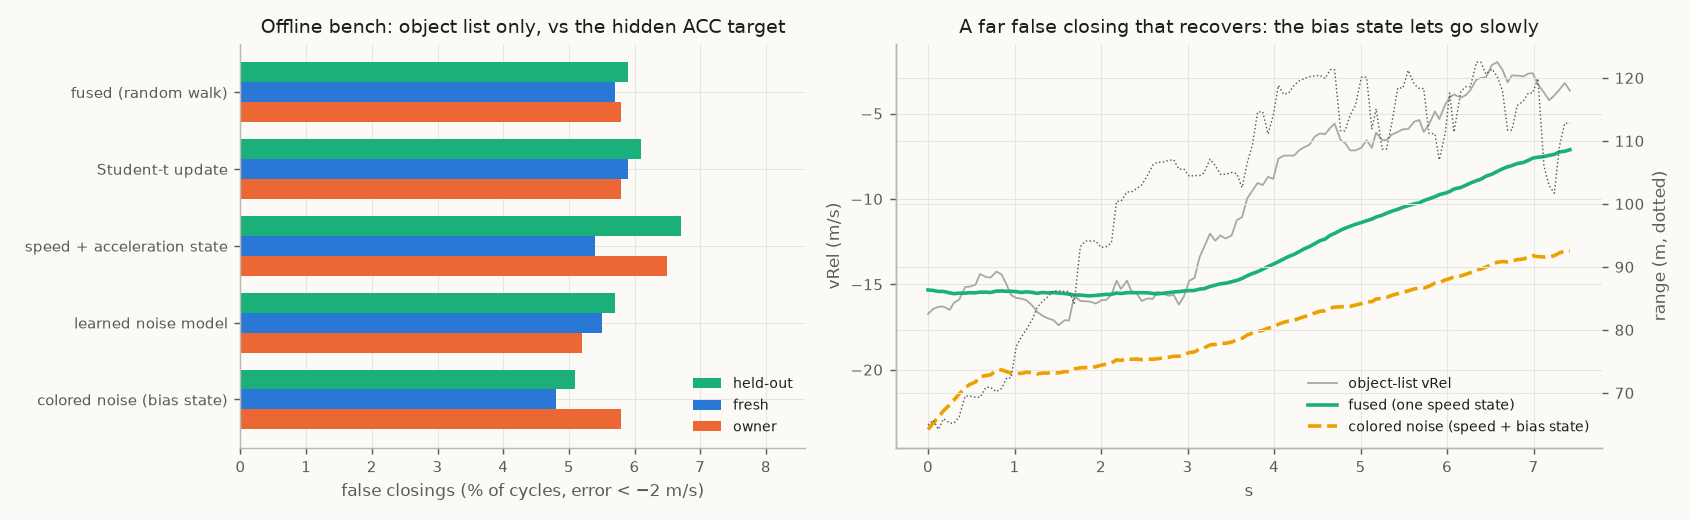
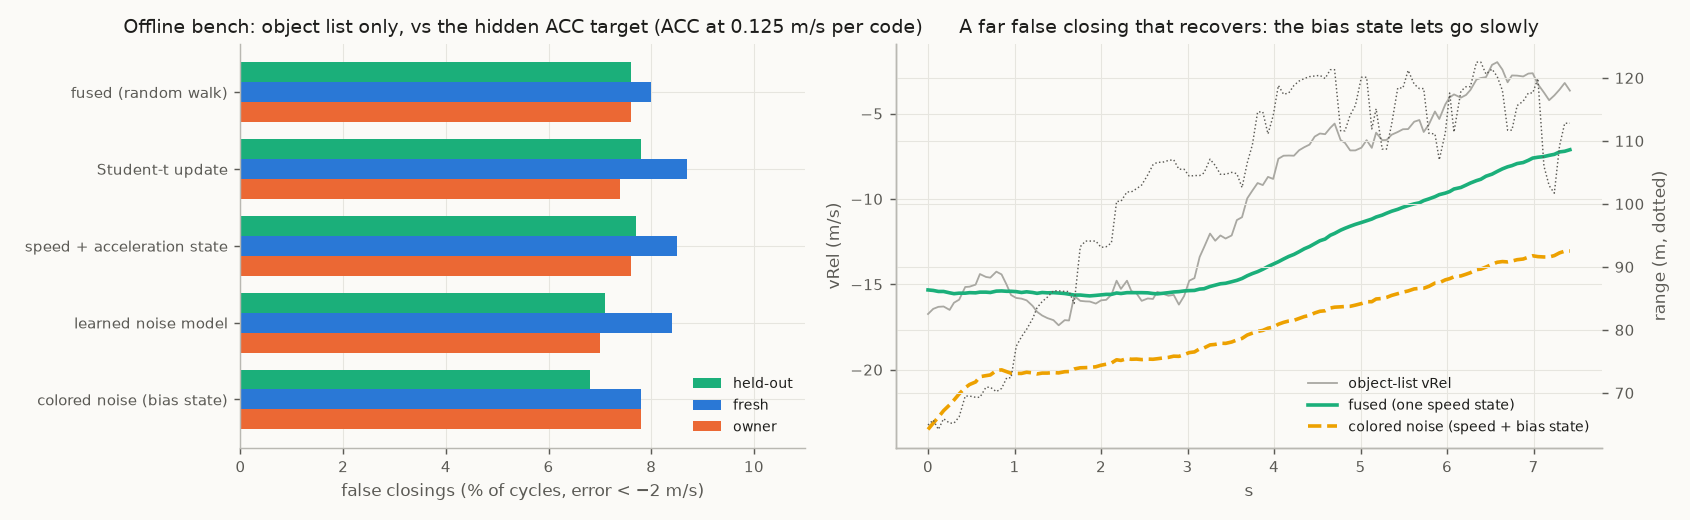
data, docs: rerun the 0.1 m/s-unit benches at 0.125 m/s per code; verify the open source claims
- kalman_variants.json / kalman_response.json: bench and response rerun at the corrected ACC unit (readings rescaled exactly; the same scripts reproduce the 0.1 numbers); colored-noise advantage on false closings is 0.8 points held-out, response advantage -84 ms [-129, -45]
- continental_field_map.json: 240|7 excursion AUCs recomputed at 0.125 (0.946 below 40 m, 0.53-0.59 beyond)
- docs 03/07/12 and the COLORED_CONFIG comment follow; kalman_variants figure regenerated
- radard distance gate cited to radard.py; StarPilot extrapolate_lead recorded in the driving ledger; unsupported Hyundai camera-SCC sentence removed
- hard_braking_review / full_movement_code rewrites tied to their data; small number fixes in docs 03/05/06/07

diff --git a/ars510/interface.py b/ars510/interface.py
@@ -170,8 +170,8 @@ FUSED_CONFIG = replace(BASE_CONFIG, range_fusion_gain=0.1, relink_max_gap_s=0.0,
 
 # Experimental (fork only, docs/12 "Kalman variants tested"): fused with the object-list error as a 1.2 s Gauss-Markov
 # bias state, noise scaled by ego speed and the radar's acceleration reading (fitted on the hidden-ACC teacher). Offline
-# bench: 5.1 % / 4.8 % false-closing cycles against 5.9 % / 5.7 % for fused on held-out / fresh drives
-# (kalman_variants.json); it holds a far excursion that recovers longer than fused does.
+# bench at the 0.125 m/s ACC unit: 6.8 % / 7.8 % false-closing cycles against 7.6 % / 8.0 % for fused on held-out / fresh
+# drives (kalman_variants.json); it holds a far excursion that recovers longer than fused does.
 COLORED_CONFIG = replace(FUSED_CONFIG, speed_sigma_per_code=0.001, speed_bias_tau_s=1.19, speed_bias_sigma_per_code=0.0096,
                          speed_sigma_ego_gain=0.48, speed_sigma_accel_gain=0.51, young_sigma_scale=1.0,
                          lead_accel_std_mps2=1.0, speed_init_sigma_per_code=0.045, speed_divergence_inflation=True,

diff --git a/tools/make_fused_figures.py b/tools/make_fused_figures.py
@@ -186,7 +186,7 @@ def kalman_variants() -> None:
     for k, (g, c) in enumerate(zip(groups, [FUS, S1, ANC])):
         a1.barh(y + (k - 1) * 0.26, [S["bench_false_closing_pct"][n][g] for n in names], 0.26, color=c, label=g.replace("heldout", "held-out"))
     a1.set_yticks(y, names); a1.invert_yaxis(); a1.set_xlabel("false closings (% of cycles, error < −2 m/s)")
-    a1.set_xlim(0, 8.6); a1.set_title("Offline bench: object list only, vs the hidden ACC target"); a1.legend(loc="lower right", fontsize=8)
+    a1.set_xlim(0, 11); a1.set_title("Offline bench: object list only, vs the hidden ACC target (ACC at 0.125 m/s per code)"); a1.legend(loc="lower right", fontsize=8)
     T = S["trace"]; t = np.array(T["t"])
     a2.plot(t, T["raw_vrel"], color=GRAY, lw=1, label="object-list vRel")
     a2.plot(t, T["fused_vrel"], color=FUS, lw=2, label="fused (one speed state)")

diff --git a/docs/12_kalman_filter.md b/docs/12_kalman_filter.md
@@ -485,20 +485,20 @@ Numbers: [`acc_weight.json`](../data/analysis/summaries/acc_weight.json),
 ## Kalman variants tested
 
 The single speed state of `fused` was compared with richer filters on an offline bench: every cycle of 8 drive groups,
-the radar's ACC target hidden as the reference (read at 0.1 m/s per code on this bench), tuned on 3 groups and scored on
-the rest. The best candidates were then replayed through openpilot
+the radar's ACC target hidden as the reference (read at 0.125 m/s per code; the cached readings are rescaled exactly from
+the 0.1 extraction and the filters retuned), tuned on 3 groups and scored on the rest. The best candidates were then replayed through openpilot
 ([`kalman_variants.json`](../data/analysis/summaries/kalman_variants.json)). The bench metric is the share of cycles
-with estimate − ACC target below −2 m/s (d > 30 m, age ≥ 60); `fused` (one speed state) scores 5.9 / 5.7 / 5.8 % on
-held-out / fresh / owner drives.
+with estimate − ACC target below −2 m/s (d > 30 m, age ≥ 60); `fused` (one speed state) scores 7.6 / 8.0 / 7.6 % on
+held-out / fresh / owner drives (5.9 / 5.7 / 5.8 % at the 0.1 m/s unit).
 
 ![Kalman variants](img/analysis/kalman_variants.png)
 
 | variant | bench false closings, held-out / fresh / owner | openpilot replays (27 drives) |
 |---|---|---|
-| Student-t update instead of the 3σ clamp | 6.1 / 5.9 / 5.8 % (up to 0.2 points above `fused`) | – |
-| speed + acceleration state, with the ACC target's acceleration as a reading | 6.7 / 5.4 / 6.5 % (above `fused` on held-out and owner drives, below on fresh) | – |
-| noise learned from all slot fields (gradient boosting) | 5.7 / 5.5 / 5.2 %; the learned noise rebuilds `240\|7`, ego speed and `84\|10` | – |
-| object-list error as its own state (colored noise, τ 1.19 s), noise scaled by ego speed and `84\|10` | **5.1 / 4.8 / 5.8 %**: 14 % and 16 % fewer false closings on held-out and fresh drives, equal on owner drives; responds as fast to ACC-defined drops (below) | against 2.0: held-out 29 hard ticks vs 30, further drives 30 vs 2 (one far false closing held for seconds) |
+| Student-t update instead of the 3σ clamp | 7.8 / 8.7 / 7.4 % (above `fused` on held-out and fresh drives, below on owner drives) | – |
+| speed + acceleration state, with the ACC target's acceleration as a reading | 7.7 / 8.5 / 7.6 % (0.1 above `fused` on held-out, 0.5 above on fresh, equal on owner drives) | – |
+| noise learned from all slot fields (gradient boosting) | 7.1 / 8.4 / 7.0 %; the learned noise rebuilds `240\|7`, ego speed and `84\|10` | – |
+| object-list error as its own state (colored noise, τ 1.19 s), noise scaled by ego speed and `84\|10` | **6.8 / 7.8 / 7.8 %** with the `COLORED_CONFIG` constants (refit at this unit: 6.8 / 8.1 / 7.5 %): 11 % fewer false closings on held-out drives, 2-3 % fewer on fresh, 3 % more on owner drives; responds 84 ms sooner to ACC-defined drops (below) | against 2.0: held-out 29 hard ticks vs 30, further drives 30 vs 2 (one far false closing held for seconds) |
 | retuned `fused` constants (σ per count 0.033, ACC σ 0.3, lead acceleration 1.0 / 2.0) | – | 8 fresh drives: only lead acceleration 2.0 passes every gate, and it scores the same as 1.5 ([`driving_claim_sources.json`](../data/analysis/summaries/driving_claim_sources.json)) |
 | ACC target weight (σ 0.13 in 2.6; 0.3 in 2.5; 0.5 before) | – | [above](#the-acc-targets-weight) |
 
@@ -510,8 +510,9 @@ for road tests.
 
 ![response to ACC-defined speed drops](img/analysis/kalman_response.png)
 
-*Response on 252 windows (33 routes) where the hidden ACC target drops ≥ 2 m/s within 2 s (ACC read at 0.1 m/s per
-code): time for the estimate to cover half the drop, relative to the ACC target. One speed state 0.438 s, colored 0.394
-s; the paired difference is −44 ms, 95% route-bootstrap interval [−101, +13] ms. The ACC target is the same radar's
-tracker, so this compares the two filters with each other
+*Response on windows where the hidden ACC target drops ≥ 2 m/s within 2 s: time for the estimate to cover half the drop,
+relative to the ACC target. Figure: 252 windows (33 routes), ACC read at 0.1 m/s per code, one speed state 0.438 s,
+colored 0.394 s, paired difference −44 ms [−101, +13] ms. At 0.125 m/s per code: 276 windows (34 routes), one speed
+state 0.554 s, colored 0.470 s, paired difference −84 ms, 95% route-bootstrap interval [−129, −45] ms. The ACC target
+is the same radar's tracker, so this compares the two filters with each other
 ([`kalman_response.json`](../data/analysis/summaries/kalman_response.json)).*

diff --git a/docs/07_velocity_excursions.md b/docs/07_velocity_excursions.md
@@ -95,8 +95,8 @@ Four closed-loop drives with the object-list radar feeding radard (owner's early
 
 - 0.045 is a fitted Gaussian-equivalent: the robust (MAD) core is about 0.025-0.04 m/s per count over codes 12-70, and heavy
   tails (kurtosis 1.3-8) lift the RMS. Above code ~60 the main set's error grows faster than proportionally (figure).
-- Within a range band, `240|7` separates excursion records below 40 m (AUC 0.95) and sits near chance beyond (0.42-0.55;
-  computed with the ACC speed at 0.1 m/s per code, [`continental_field_map.json`](../data/analysis/summaries/continental_field_map.json)).
+- Within a range band, `240|7` separates excursion records below 40 m (AUC 0.95) and sits near chance beyond (0.53-0.59,
+  [`continental_field_map.json`](../data/analysis/summaries/continental_field_map.json)).
 - Across 13.6k candidate signals, the object's own state explains part of the object-list error: `84|10` acceleration (R² 0.11), the uncertainty code `264|8`, width `216|6`. Together the object's state
   and 3 s history predict ~37-43% of the error variance on 40 fresh one-minute segments ([`acc_unit_recompute.json`](../data/analysis/summaries/acc_unit_recompute.json)), spread over many fields
   ([`excursion_sigma_scale.json`](../data/analysis/summaries/excursion_sigma_scale.json)).
@@ -121,7 +121,7 @@ Four closed-loop drives with the object-list radar feeding radard (owner's early
 ## What openpilot does with it
 
 - radard's per-track Kalman filter smooths **the lead speed (vRel + ego speed) only** and passes a drift into `vLeadK` and `aLeadK`.
-- The 25% distance gate keeps the drifting track matched to the vision lead (±28 m at 110 m).
+- radard's distance gate, max(25 % of the vision lead's distance, 5 m) (`selfdrive/controls/radard.py`, `dist_sane`), keeps the drifting track matched to the vision lead (±28 m at 110 m).
 - The planner projects `aLeadK` forward as a·exp(−τ·t²/2), with τ = 1.5 while |aLeadK| stays below 0.5 m/s² and τ
   falling toward 0 while it is larger, so a large drift-driven `aLeadK` is held over the plan.
 

diff --git a/docs/03_slot_fields.md b/docs/03_slot_fields.md
@@ -285,8 +285,8 @@ Relative speed is the over-ground speed minus ego speed. The ACC target's relati
 - **Axis check from the codes' own jitter:** each code grows with the record-to-record jitter of its own quantity (`232|7` yRel, `248|7` and
   `264|8` lateral speed, `256|8` the `84|10` acceleration, `240|7` speed below 25 m). For `232|7` and `240|7` the
   jitter is about a fifth of the ACC-referenced error per count, so these codes describe slowly varying tracker error.
-- **`240|7` grades the width of the error:** it separates excursion records below 40 m (AUC 0.95, 53 excursions, ACC speed read at 0.1 m/s per code,
-  [`continental_field_map.json`](../data/analysis/summaries/continental_field_map.json)) with an AUC of 0.42-0.55 beyond 40 m, where 91 of the 144 excursions happen. Its size follows the error
+- **`240|7` grades the width of the error:** it separates excursion records below 40 m (AUC 0.95, 72 excursions,
+  [`continental_field_map.json`](../data/analysis/summaries/continental_field_map.json)) with an AUC of 0.53-0.59 beyond 40 m, where 107 of the 179 excursions happen. Its size follows the error
   width ([07](07_velocity_excursions.md#far-range-excursions-match-the-reported-velocity-error-scale)), so it serves as a per-reading weight in `fused`.
 - **Optical check:** against the camera reference (40-80 m) the disagreement grows at 0.049 m/s per count (R² 0.81
   over code deciles), which includes the camera's own error

diff --git a/docs/10_research_directions.md b/docs/10_research_directions.md
@@ -318,8 +318,7 @@ object. That model weights each reading by its own uncertainty, either over spee
 and range rate with the measured 3 % range noise (research profiles `shared_speed` / `shared_range`). It brakes hard
 while moving 59 and 168 times against `fused`'s 8. Both object-list kinematic signals, speed and range, carry slow,
 correlated errors that inverse-variance weighting leaves in place; the ACC target's speed follows the slope of its own
-range (below), so the radar's decision carries consistent speed and range. sunnypilot's
-Hyundai camera-SCC interface publishes that car's ACC lead as its single point the same way.
+range (below), so the radar's decision carries consistent speed and range.
 
 ![the ACC target alone against 2.6](img/analysis/guide_acc_target_parser.png)
 
